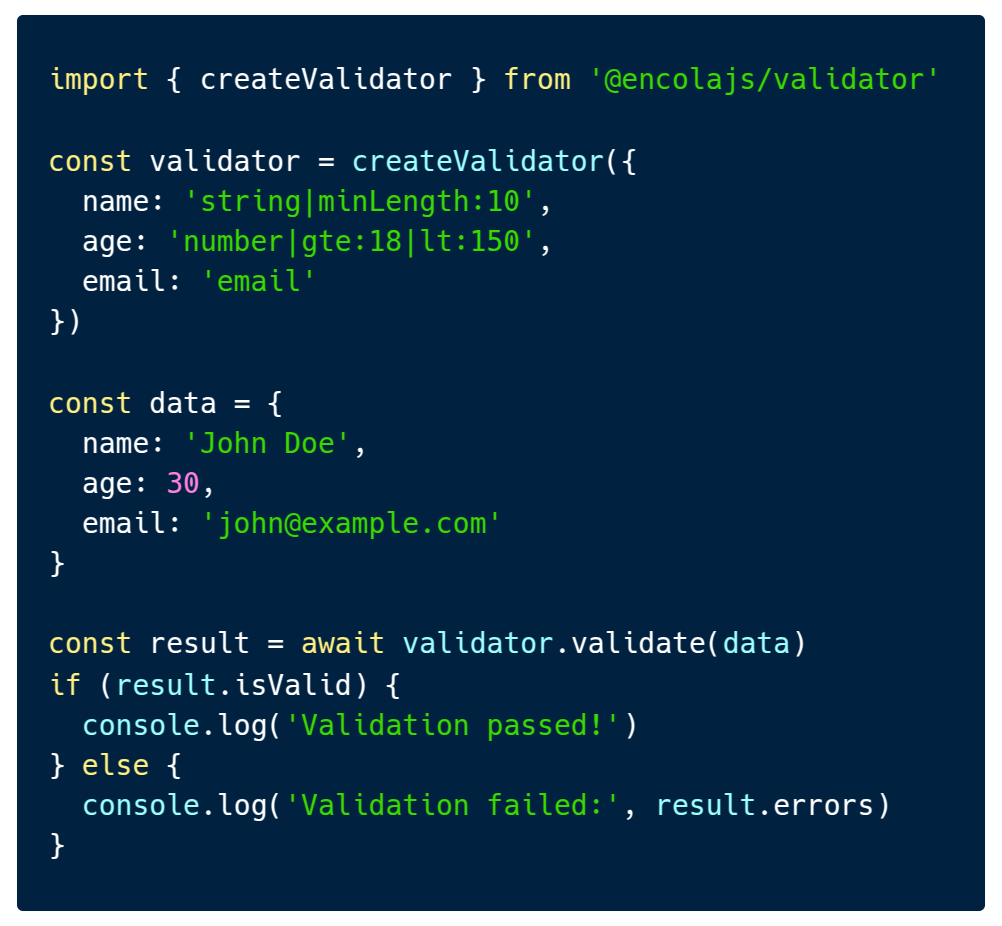
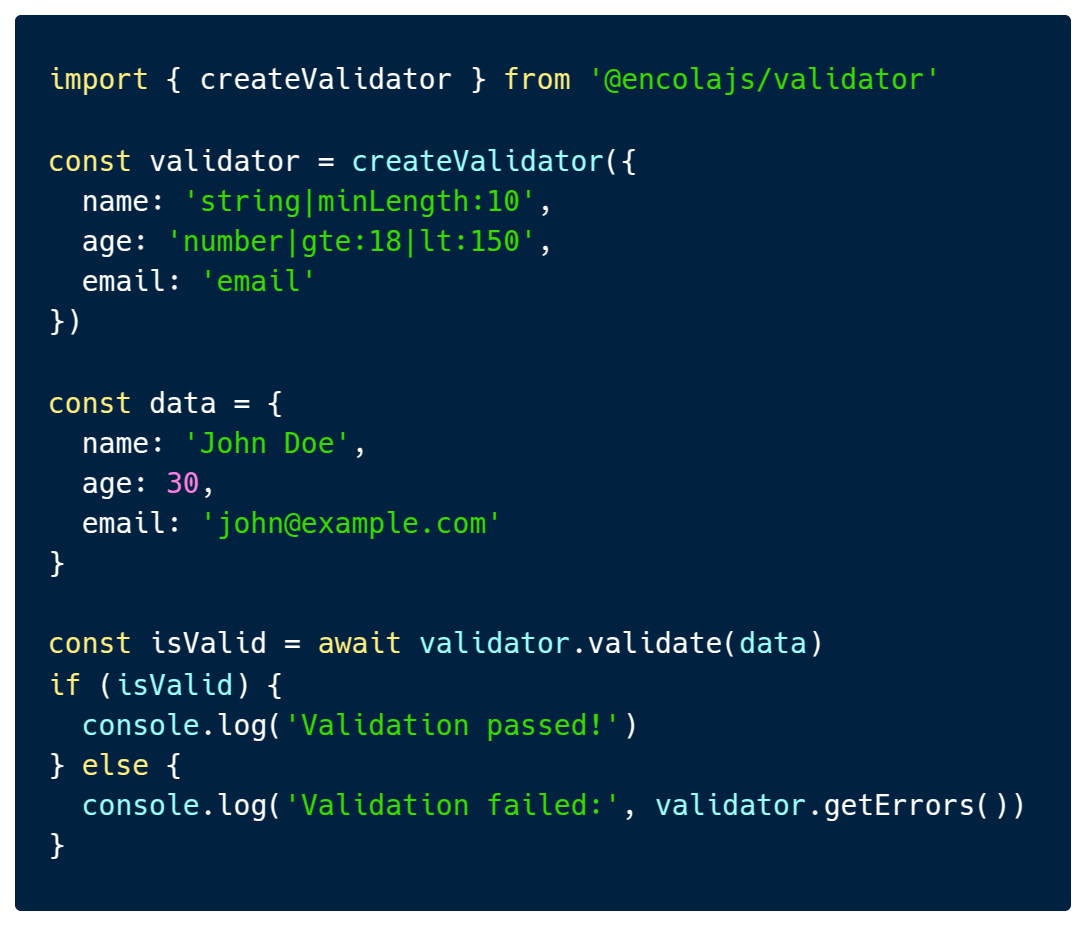
Changed validation result to match the code

Changed region(s): [[0.0, 0.0302, 0.9281, 0.9676], [0.9591, 0.0302, 0.99, 0.9676]]

diff --git a/docs/guide/getting-started.md b/docs/guide/getting-started.md
@@ -217,10 +217,10 @@ const data = {
   email: 'john@example.com'
 }
 
-const result = await validator.validate(data)
-if (result.isValid) {
+const isValid = await validator.validate(data)
+if (isValid) {
   console.log('Validation passed!')
 } else {
-  console.log('Validation failed:', result.errors)
+  console.log('Validation failed:', validator.getErrors())
 }
 ```

diff --git a/docs/guide/index.md b/docs/guide/index.md
@@ -35,10 +35,10 @@ const data = {
   email: 'john@example.com'
 }
 
-const result = await validator.validate(data)
-if (result.isValid) {
+const isValid = await validator.validate(data)
+if (isValid) {
   console.log('Validation passed!')
 } else {
-  console.log('Validation failed:', result.errors)
+  console.log('Validation failed:', validator.getErrors())
 }
 ```
